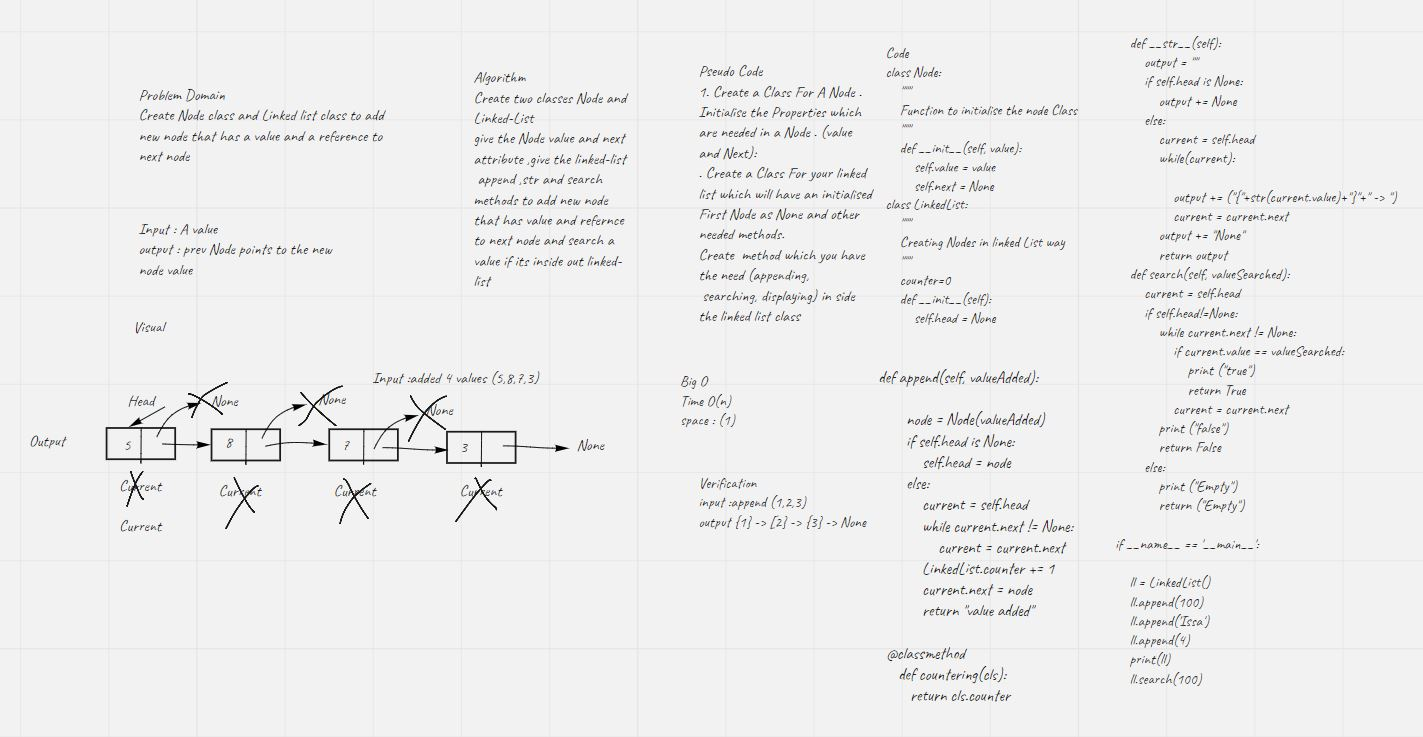
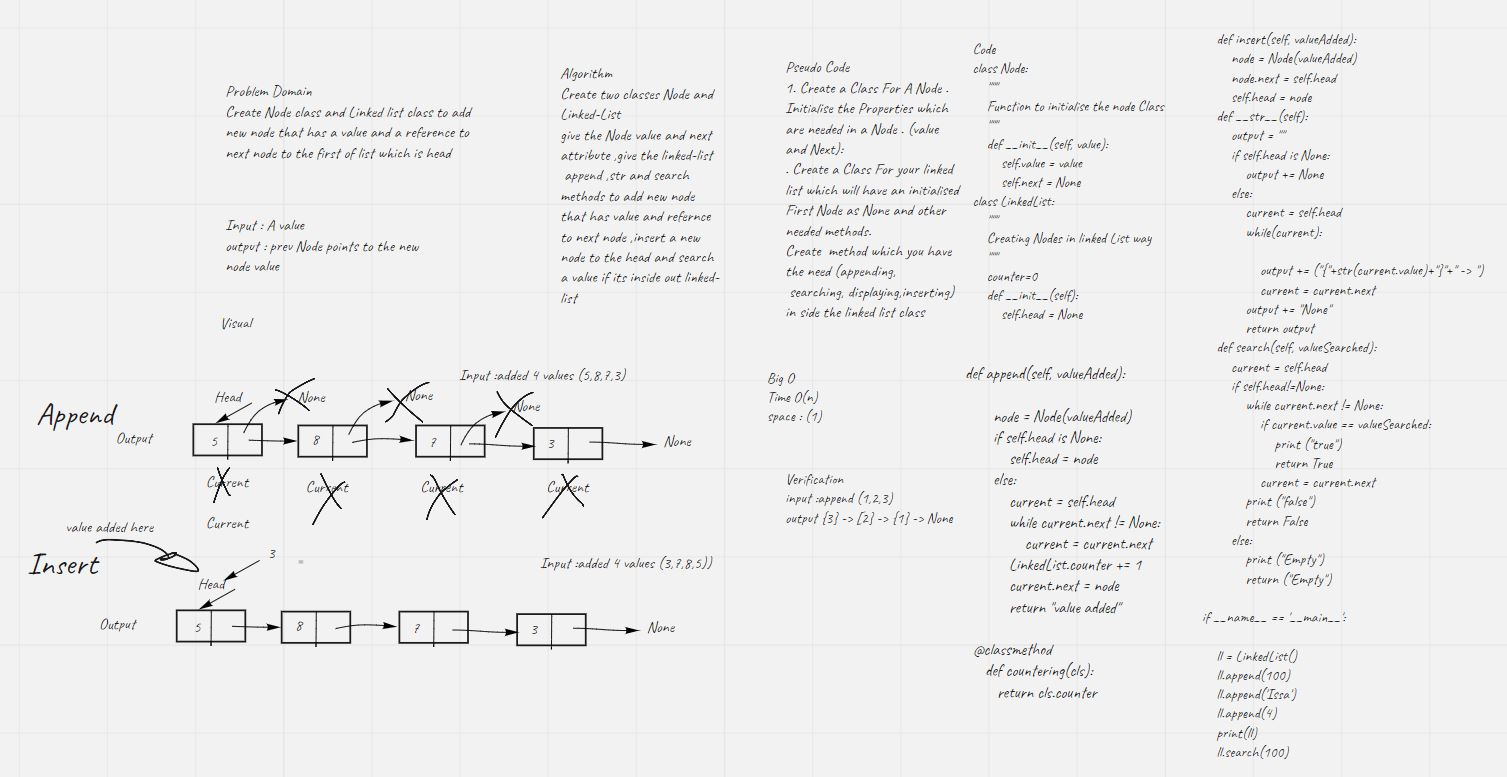
done inserting

diff --git a/python/code_challenges/linked-list/tests/test_linked_list.py b/python/code_challenges/linked-list/tests/test_linked_list.py
@@ -15,14 +15,14 @@ def test_empty_linked_list():
 
 def test_inserting_one_value():
     ll = LinkedList()
-    ll.append(3)
+    ll.insert(3)
     expected = "value added"
-    actual = ll.append(3)
+    actual = ll.insert(3)
     assert expected == actual
 
 def test_head_pointing_to_next_node():
     ll = LinkedList()
-    ll.append(3)
+    ll.insert(3)
     expected = '{3} -> None'
     actual = ll.__str__()
     assert expected == actual
@@ -30,6 +30,10 @@ def test_head_pointing_to_next_node():
 
 def test_multi_values_added(ll):
     ll.append(True)
+    ll.append("Salman")
+    ll.append(54)
+    ll.append(87)
+
     expected = 4
     actual = ll.countering()
     assert expected == actual
@@ -38,7 +42,7 @@ def test_multi_values_added(ll):
 
 
 def test_all_values_in_LL(ll):
-    expected = '{10} -> {Issa} -> {500} -> None'
+    expected = '{500} -> {Issa} -> {10} -> None'
     actual = ll.__str__()
     assert expected == actual
 
@@ -63,8 +67,8 @@ def test_value_not_found(ll):
 @pytest.fixture
 def ll():
     ll = LinkedList()
-    ll.append(10)
-    ll.append('Issa')
-    ll.append(500)
+    ll.insert(10)
+    ll.insert('Issa')
+    ll.insert(500)
 
     return ll

diff --git a/python/code_challenges/linked-list/linked_list/linked_list.py b/python/code_challenges/linked-list/linked_list/linked_list.py
@@ -31,6 +31,14 @@ class LinkedList:
             current.next = node
             return "value added"
 
+    def insert(self, valueAdded):
+        node = Node(valueAdded)
+
+        node.next = self.head
+
+        self.head = node
+
+        return "value added"
 
     @classmethod
     def countering(cls):
@@ -71,9 +79,11 @@ if __name__ == '__main__':
     ll = LinkedList()
 
 
-    ll.append(100)
-    ll.append('Issa')
-    ll.append(4)
+    ll.insert(100)
+    ll.insert('Issa')
+    ll.insert(4)
+    ll.append(5)
+
     print(ll)
     ll.search(100)
 

diff --git a/python/code_challenges/linked-list/README.md b/python/code_challenges/linked-list/README.md
@@ -22,3 +22,15 @@ We have 3 methods
 2- search method: that used to search for specific values in the linked list
 3- str method: to give a presenting way to the user when he prints the object after adding values for example
 4- counter method : to count how many times we added a value
+
+## Task lists
+- [x] Can successfully instantiate an empty linked list
+
+- [x] Can properly insert into the linked list
+
+- [x] The head property will properly point to the first
+node in the linked list
+- [x] Can properly insert multiple nodes into the linked list
+- [x] Will return true when finding a value within the linked list that exists
+- [x] Will return false when searching for a value in the linked list that does not exist
+- [x] Can properly return a collection of all the values that exist in the linked list
